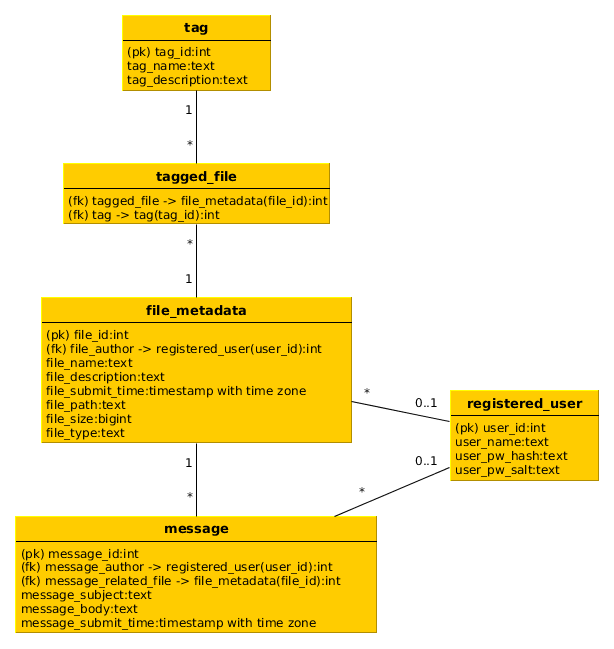
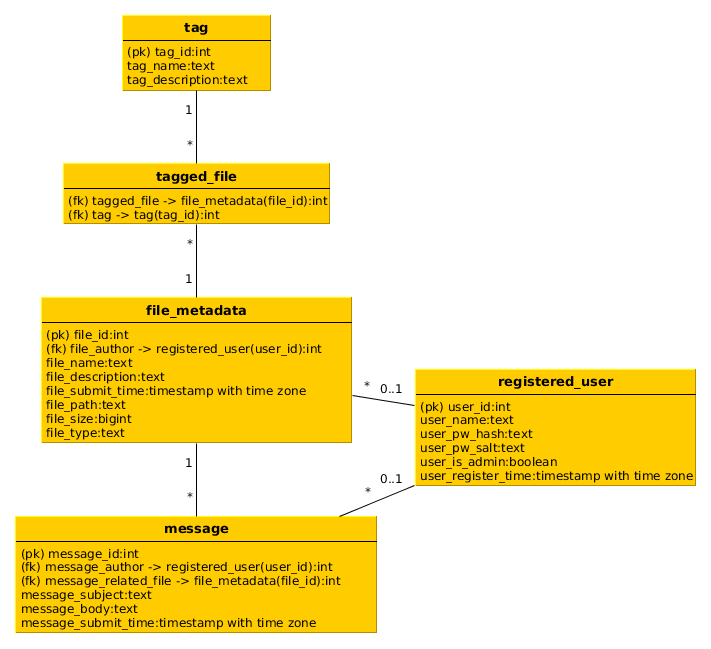
begin implementing user profiles

Changed region(s): [[0.0, 0.0, 0.9902, 0.9861], [0.2166, 0.8012, 0.3713, 0.832], [0.2476, 0.678, 0.2785, 0.7704]]

diff --git a/app/views/user/userList.html b/app/views/user/userList.html
@@ -1,0 +1,24 @@
+{% extends "base.html" %}
+
+{% block content %}
+<table class="table table-hover">
+    <thead>
+        <tr>
+            <th>User name</th>
+            <th>Number of files uploaded</th>
+            <th>Number of messages posted</th>
+            <th>Date registered</th>
+        </tr>
+    </thead>
+    <tbody>
+        {% for user in users %}
+        <tr>
+            <td><a href="{{base_path}}/file/{{user.id}}">{{user.name}}</a></td>
+            <td>{{user.fileCount()}}</td>
+            <td>{{user.messageCount()}}</td>
+            <td>{{user.registerTime}}</td>
+        </tr>
+        {% endfor %}
+    </tbody>
+</table>
+{% endblock %}

diff --git a/app/views/file/viewFile.html b/app/views/file/viewFile.html
@@ -12,7 +12,14 @@
     </div>
     {{dataItem.fileDataItem("Size", "#{file.prettySize()}")}}
     {{dataItem.fileDataItem("Filetype", "#{file.type}")}}
-    {{dataItem.fileDataItem("Uploader", "#{file.author.name}")}}
+    <div class="row">
+        <div class="col-sm-3">
+            <strong>Author</strong>
+        </div>
+        <div class="col-sm-9">
+            <a href="{{base_path}}/user/{{file.author.id}}">{{file.author.name}}</a>
+        </div>
+    </div>
     {{dataItem.fileDataItem("Time submitted", "#{file.prettySubmitTime()}")}}
     <div class="row">
         <div class="col-sm-3">

diff --git a/app/views/user/userProfile.html b/app/views/user/userProfile.html
@@ -1,0 +1,13 @@
+{% extends "base.html" %}
+{% block content %}
+{{dataItem.userDataItem("User name", "#{user.name}")}}
+{{dataItem.userDataItem("Time registered", "#{user.prettySubmitTime()}")}}
+<div class="row">
+    <div class="col-sm-3">
+        <strong>Uploaded files</strong>
+    </div>
+    <div class="col-sm-9">
+        <a href="{{base_path}}/filelist?uploader={{user.name}}">{{user.fileCount}}</a>
+    </div>
+</div>
+{% endblock %}

diff --git a/app/views/misc/searchPage.html b/app/views/misc/searchPage.html
@@ -21,6 +21,7 @@
             <input class="form-control" name="filetype" id="filetype" placeholder="e.g. text/plain -- file extension should be included in name field" type="text">
         </div>
     </div>
+    {{inp.textInput("Uploader", "uploader", "Name of the user account that uploaded the file")}}
     <button type="submit" class="btn btn-primary">Search</button>
 </form>
 {% endblock %}

diff --git a/app/views/macro/input.html b/app/views/macro/input.html
@@ -1,0 +1,8 @@
+{% macro textInput(label, identifier, placeholder) %}
+<div class="form-group">
+    <label for="{{identifier}}" class="col-sm-2">{{label}}</label>
+    <div class="col-sm-10">
+        <input class="form-control" name="{{identifier}}" id="{{identifier}}" placeholder="{{placeholder|default(label)}}" type="text">
+    </div>
+</div>
+{% endmacro %}

diff --git a/app/views/file/upload.html b/app/views/file/upload.html
@@ -1,7 +1,7 @@
 {% extends "base.html" %}
 {% block content %}
 <h2>Upload a file</h2>
-{{msg.info("Maximum filesize is currently 3 MB")}}
+{{msg.info("Maximum filesize is currently 5 MB")}}
 {{msg.info("Required fields are marked by *")}}
 <form class="form-horizontal" method="post" enctype="multipart/form-data">
 

diff --git a/app/views/macro/dataItem.html b/app/views/macro/dataItem.html
@@ -25,3 +25,14 @@
 {{tag.name}} 
 {%endfor%}
 {% endmacro %}
+
+{% macro userDataItem(label, value) %}
+<div class="row">
+    <div class="col-sm-3">
+        <strong>{{label}}</strong>
+    </div>
+    <div class="col-sm-9">
+        {{value}}
+    </div>
+</div>
+{% endmacro %}

diff --git a/app/views/base.html b/app/views/base.html
@@ -1,5 +1,6 @@
 {%import "macro/message.html" as msg%}
 {% import "macro/dataItem.html" as dataItem %}
+{% import "macro/input.html" as inp %}
 <!DOCTYPE html>
 <html>
     <head>

diff --git a/app/controllers/UserController.php b/app/controllers/UserController.php
@@ -13,6 +13,17 @@
  */
 class UserController extends BaseController {
 
+    private static function userValidator($userData) {
+        $v = new Valitron\Validator($userData);
+        $v->rule('required', 'name');
+        $v->rule('lengthMax', 'name', 30)->message('{field} must no longer than {field1}');
+        $v->rule('required', 'password');
+        $v->rule('equals', 'password', 'passwordRepeat')->message('Passwords don\'t match');
+        $v->rule('equals', 'existingUser', null)->message('User already exists');
+        $v->labels(array('name' => 'User name'));
+        return $v;
+    }
+
     public static function loginGet() {
         View::make('user/login.html');
     }
@@ -48,21 +59,23 @@ class UserController extends BaseController {
 
     public static function registerPost() {
         $params = $_POST;
-        $found = User::findByName($params['username']);
-        if ($found != null) {
-            Redirect::to('/register', array('err' => 'Username is already taken.'));
-        }
-        if ($_POST['password'] != $_POST['passwordRepeat']) {
-            Redirect::to('/register', array('err' => 'Passwords don\'t match.'));
-        }
-        //$2a$10$ selects blowfish ($2a$) with 2^10 iterations ($10$)
-        $salt = '$2a$10$' . bin2hex(openssl_random_pseudo_bytes(16));
-        $user = new User(array(
+        $existingUser = User::findByName($params['username']);
+
+
+        $userData = array(
             'name' => $params['username'],
-            'pwHash' => crypt($params['password'], $salt),
-            'pwSalt' => $salt));
-        $validator = $user->validator();
+            'password' => $params['password'],
+            'passwordRepeat' => $params['passwordRepeat'],
+            'existingUser' => $existingUser
+        );
+        $validator = self::userValidator($userData);
         if ($validator->validate()) {
+            //$2a$10$ selects blowfish ($2a$) with 2^10 iterations ($10$)
+            $salt = '$2a$10$' . bin2hex(openssl_random_pseudo_bytes(16));
+            $user = new User(array(
+                'name' => $params['username'],
+                'pwHash' => crypt($params['password'], $salt),
+                'pwSalt' => $salt));
             $user->save();
             self::loginPost();
         } else {
@@ -70,4 +83,12 @@ class UserController extends BaseController {
         }
     }
 
+    public static function userlist() {
+        View::make('user/userlist.html');
+    }
+    
+    public static function userProfile($id) {
+        $user = User::find($id);
+        View::make('user/userProfile.html', array('user' => $user));
+    }
 }

diff --git a/app/controllers/FileController.php b/app/controllers/FileController.php
@@ -21,6 +21,7 @@ class FileController extends BaseController {
         $terms['name'] = null;
         $terms['type'] = null;
         $terms['tags'] = array();
+        $terms['uploader'] = null;
         if (!empty($_GET['filename'])) {
             $terms['name'] = $_GET['filename'];
         }
@@ -30,7 +31,9 @@ class FileController extends BaseController {
         if (!empty($_GET['filetype'])) {
             $terms['type'] = $_GET['filetype'];
         }
-        
+        if (!empty($_GET['uploader'])) {
+            $terms['uploader'] = $_GET['uploader'];
+        }
         $files = File::search($terms);
         View::make('file/filelist.html', array('files' => $files));
     }
@@ -58,9 +61,9 @@ class FileController extends BaseController {
             $fileData['size'] = $_FILES['fileInput']['size'];
             $fileData['description'] = $_POST['fileDescription'];
             $fileData['author'] = self::get_user_logged_in();
+            $finalPath = FileController::$basePath . $fileData['path'];
+            $fileData['finalPath'] = $finalPath;
         }
-        $finalPath = FileController::$basePath . $fileData['path'];
-        $fileData['finalPath'] = $finalPath;
         $validator = self::fileValidator($fileData);
         $file = new File($fileData);
         if ($validator->validate()) {
@@ -77,7 +80,7 @@ class FileController extends BaseController {
 
     public static function editFileGet($id) {
         $file = File::find($id);
-        if (!self::logged_in($file->author)) {
+        if (!self::checkOwnership($file->author)) {
             Redirect::to('/file/' . $file->id, array('err' => 'Login as the uploader to edit files.'));
         }
         View::make('file/editFile.html', array(
@@ -88,7 +91,7 @@ class FileController extends BaseController {
     public static function editFilePost($id) {
         $params = $_POST;
         $file = File::find($id);
-        if (!self::logged_in($file->author)) {
+        if (!self::checkOwnership($file->author)) {
             Redirect::to('/file/' . $file->id, array('err' => 'Login as the uploader to edit files.'));
         }
         $fileData = array(
@@ -112,7 +115,7 @@ class FileController extends BaseController {
 
     public static function destroyFile($id) {
         $file = File::find($id);
-        if (!self::logged_in($file->author)) {
+        if (!self::checkOwnership($file->author)) {
             Redirect::to('/file/' . $file->id, array('err' => 'Login as the uploader to edit files.'));
         }
         unlink(FileController::$basePath . $file->path);

diff --git a/app/models/File.php b/app/models/File.php
@@ -34,7 +34,7 @@ class File extends BaseModel {
     }
 
     public static function maxSize() {
-        return 3000000;
+        return 5000000;
     }
 
     public function prettySize() {
@@ -83,6 +83,7 @@ class File extends BaseModel {
             $stmt = helperFunctions::sqlMerge($stmt, self::tagSearch($tag, $idx));
             $idx += 1;
         }
+        $stmt = helperFunctions::sqlMerge($stmt, self::uploaderSearch($params['uploader']));
         if (empty($stmt)) {
             $stmt = array('stmt' => 'SELECT * FROM file_metadata', 'params' => array());
         }
@@ -128,6 +129,17 @@ class File extends BaseModel {
         return array('stmt' => $stmt, 'params' => array('type' => $type));
     }
 
+    private static function uploaderSearch($uploader) {
+        if (empty($uploader)) {
+            return null;
+        }
+        $uploader = helperFunctions::sqlReplaceWildcards($uploader);
+        $stmt = 'SELECT file_metadata.* FROM file_metadata,registered_user '
+                . 'WHERE file_metadata.file_author = registered_user.user_id '
+                . 'AND registered_user.user_name LIKE :uploader';
+        return array('stmt' => $stmt, 'params' => array('uploader' => $uploader));
+    }
+    
     public static function find($id) {
         $stmt = 'SELECT * FROM file_metadata WHERE file_id = :id';
         $query = DB::connection()->prepare($stmt);
@@ -163,7 +175,7 @@ class File extends BaseModel {
     }
 
     public function messageCount() {
-        return Message::messageCount($this);
+        return Message::fileMessageCount($this);
     }
 
     public function messages() {
@@ -193,4 +205,14 @@ class File extends BaseModel {
         $query->execute(array('id' => $this->id));
     }
 
+    public static function userFileCount(User $user) {
+        $stmt = 'SELECT COUNT(*) AS message_count '
+                . 'FROM registered_user,file_metadata '
+                . 'WHERE registered_user.user_id = file_metadata.file_author '
+                . 'AND registered_user.user_id = :userid';
+        $query = DB::connection()->prepare($stmt);
+        $query->execute(array('userid' => $user->id));
+        $row = $query->fetch();
+        return $row['message_count'];
+    }
 }

diff --git a/lib/base_model.php b/lib/base_model.php
@@ -1,25 +1,26 @@
 <?php
 
-class BaseModel{
+class BaseModel {
+
     // "protected"-attribuutti on käytössä vain luokan ja sen perivien luokkien sisällä
     protected $validators;
 
-    public function __construct($attributes = null){
+    public function __construct($attributes = null) {
         // Käydään assosiaatiolistan avaimet läpi
-        foreach($attributes as $attribute => $value){
+        foreach ($attributes as $attribute => $value) {
             // Jos avaimen niminen attribuutti on olemassa...
-            if(property_exists($this, $attribute)){
+            if (property_exists($this, $attribute)) {
                 // ... lisätään avaimen nimiseen attribuuttin siihen liittyvä arvo
                 $this->{$attribute} = $value;
             }
         }
     }
 
-    public function errors(){
+    public function errors() {
         // Lisätään $errors muuttujaan kaikki virheilmoitukset taulukkona
         $errors = array();
 
-        foreach($this->validators as $validator){
+        foreach ($this->validators as $validator) {
             // Kutsu validointimetodia tässä ja lisää sen palauttamat virheet errors-taulukkoon
             $errors[] = array_merge($errors, $this->{$validator}());
         }
@@ -27,6 +28,13 @@ class BaseModel{
     }
 
     public function prettySubmitTime() {
-        return date('Y-m-d H:i:s', strtotime($this->submitTime));
+        if (!empty($this->submitTime)) {
+            return date('Y-m-d H:i:s', strtotime($this->submitTime));
+        } else if (!empty($this->registerTime)) {
+            return date('Y-m-d H:i:s', strtotime($this->registerTime));
+        } else {
+            return null;
+        }
     }
+
 }
